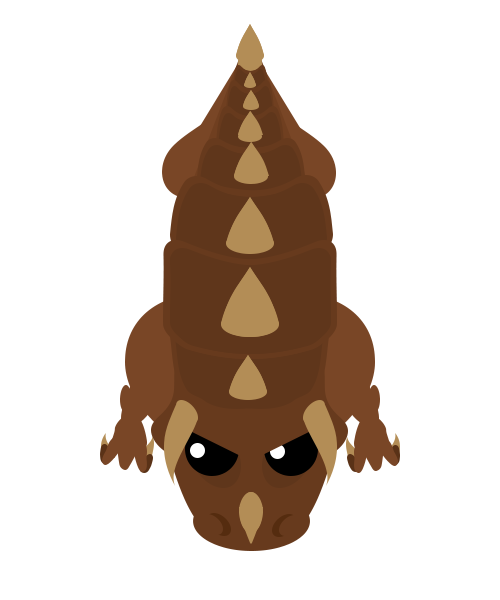
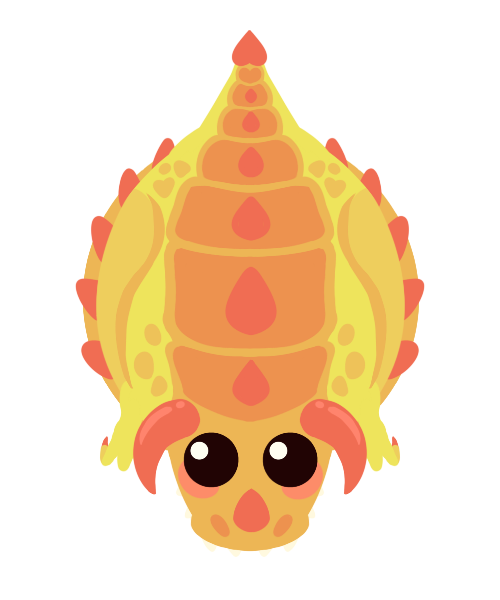
🎨👨❤👨 Checkpoint ./mope/client.js:39269466/213

diff --git a/mope/client.js b/mope/client.js
@@ -5096,7 +5096,7 @@ if (KTestingModeON) {
   if (ACTIVATEOURGAMEMODE) {
     addServerDef("FFA", "127.0.0.1", reg, "80");
   } else {
-    addServerDef("Local Test 1", "5245-190-215-158-88.ap.ngrok.io", reg, "80");
+    addServerDef("Local Test 1", "24e4-190-215-158-88.ap.ngrok.io", reg, "80");
     console.log("Hi :)");
     console.log(":v");
     addServerDef("Local Test 2", "127.0.0.1", reg,"80");
@@ -12824,7 +12824,7 @@ You got firestream that burns your victim alive! Watch your tail and slap them h
       infoO.aniName = "Land Monster";
       infoO.upgradeText = "UPGRADED to Land Monster!";
       infoO.aniCol = "#FF9000";
-      infoO.skinName = "mope/skins/monsters/superland";
+      infoO.skinName = "monsters/superland";
       break;
     case a_iceMonster:
       infoO.aniName = "Ice Monster";
@@ -12836,7 +12836,7 @@ You got firestream that burns your victim alive! Watch your tail and slap them h
       infoO.aniName = "Dino Monster";
       infoO.upgradeText = "UPGRADED to Dino Monster!";
       infoO.aniCol = "#FF9000";
-      infoO.skinName = "dinomonster";
+      infoO.skinName = "monsters/dinomonster/dinomonster3";
       break;
     case a_pigeon:
       infoO.aniName = "Pigeon";
